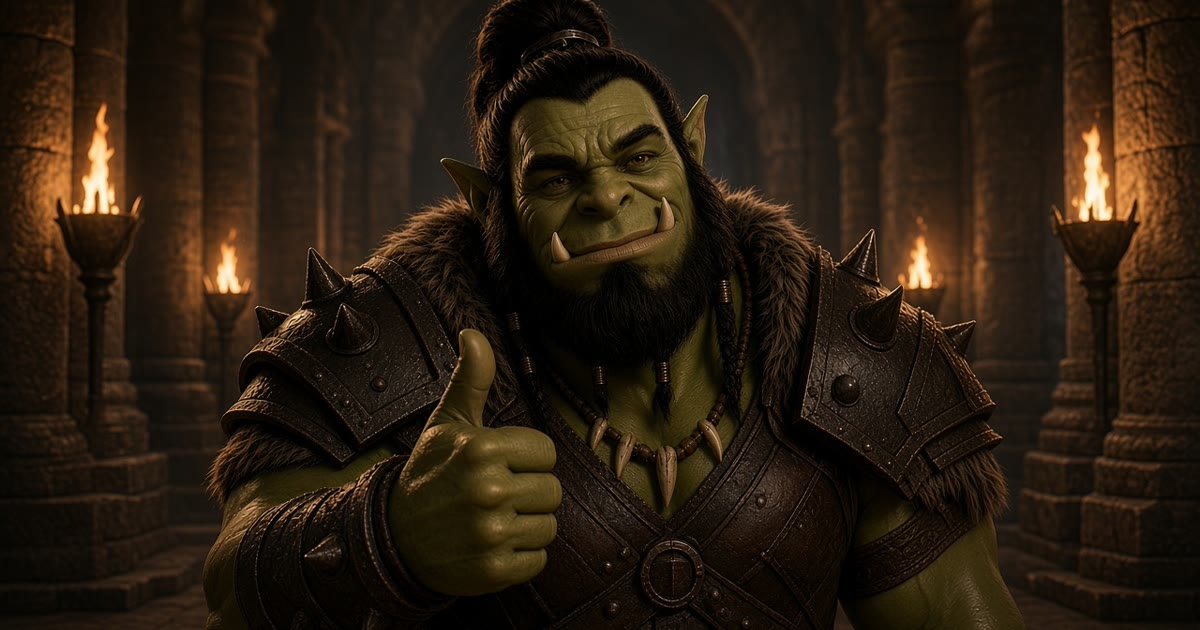
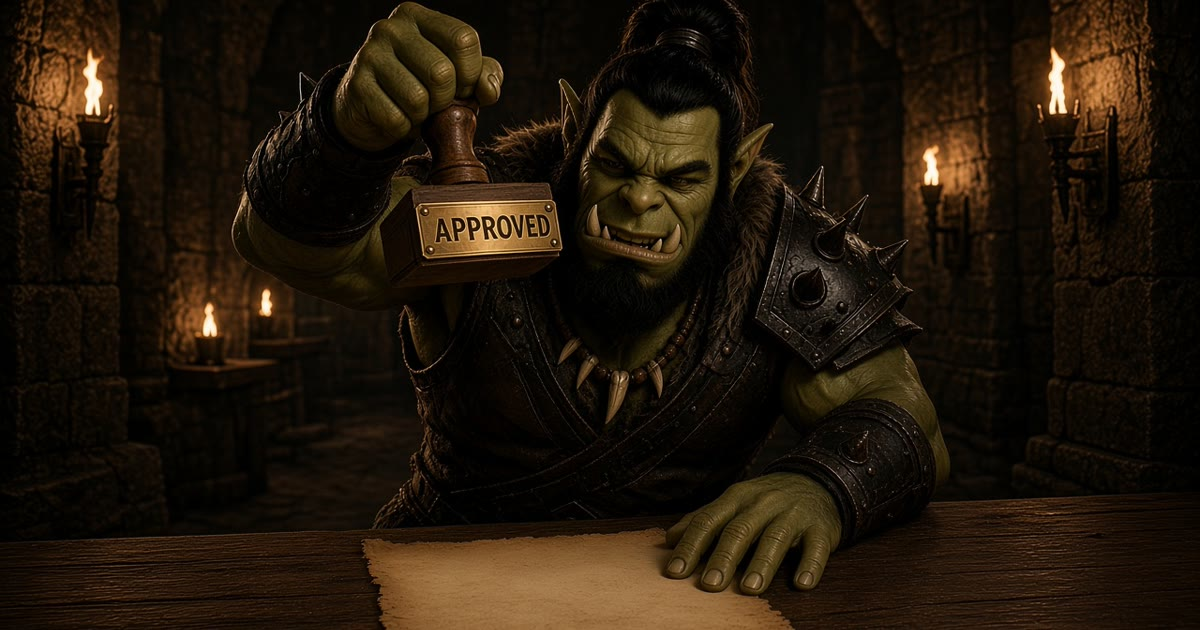
Reshoot Approves as a stamp slam.
He slams an APPROVED stamp onto the parchment, then lifts it to show the mark.

diff --git a/scripts/imagine-video.ts b/scripts/imagine-video.ts
@@ -24,6 +24,7 @@ const DURATIONS: Record<string, number> = {
   annoyed: 6,
   celebrate: 6,
   congratulations: 6,
+  approves: 6,
   damn: 6,
   fishing: 6,
   "something-good": 6,
@@ -37,7 +38,7 @@ const PROMPTS: Record<string, string> = {
   angry:
     "The orc shouts in anger, a short roar, shoulders heaving, glare holding on the camera. Locked camera.",
   approves:
-    "He gives one slow approving nod, the thumbs-up staying up, and his closed-mouth smile grows a little. Mouth stays closed, no talking. Locked camera.",
+    "He slams the APPROVED stamp down onto the blank parchment. The word APPROVED prints in bold red ink and stays readable. He lifts the stamp to show it. Satisfied closed-mouth grin. Mouth stays closed, no talking. Locked camera.",
   annoyed:
     "The orc watches, eyes narrowing, a small exasperated blink and a tiny head tilt. He stays annoyed. His hands never rise. He does not touch his face or nose. He does not shout. Mouth stays closed, no talking. Locked camera.",
   beach:
